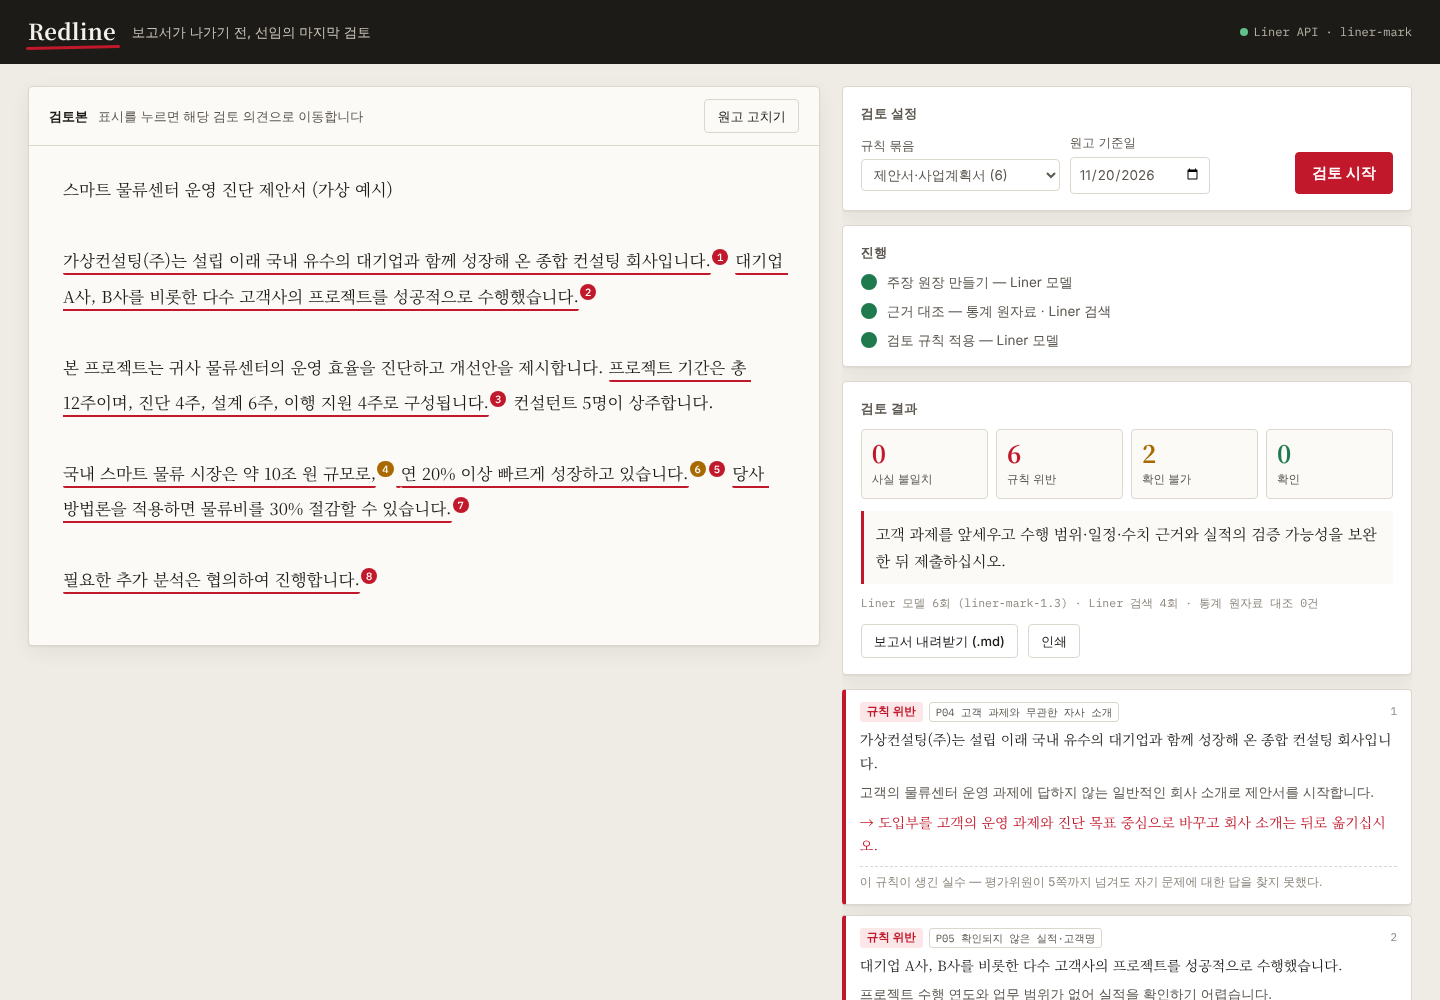
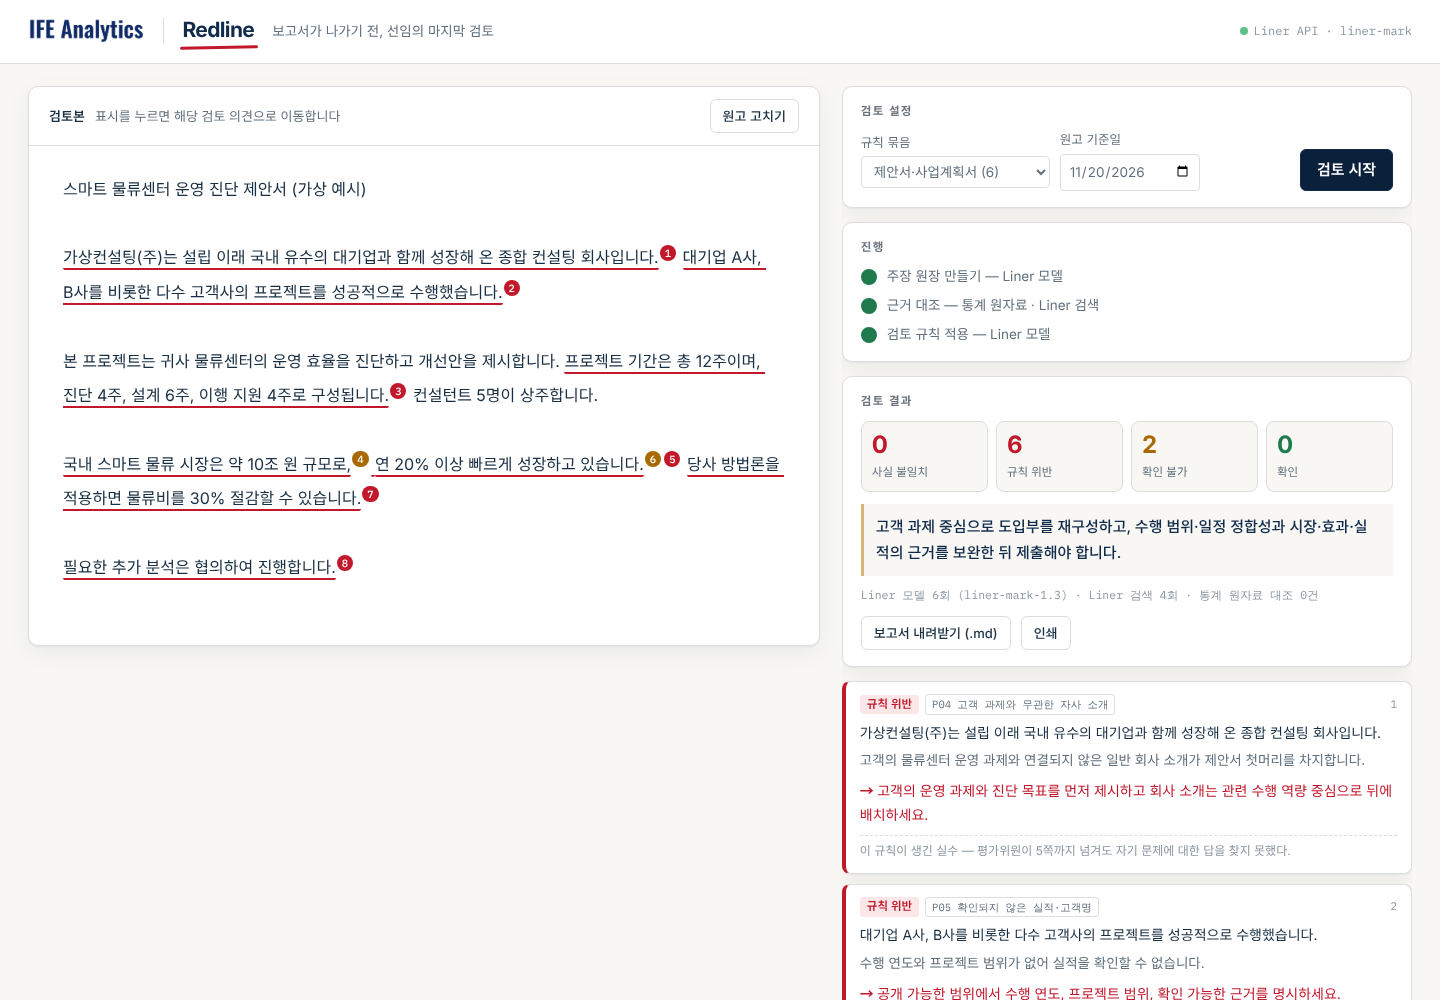
화면을 IFE Analytics 스타일로: 워드마크 로고, 네이비·골드 색, Inter·Noto Sans KR 글꼴, 꼬리말 면책
Claude-Session: https://claude.ai/code/session_01Hsb1Zqs2nKm49MCUT2EsYw

diff --git a/redline/static/index.html b/redline/static/index.html
@@ -5,51 +5,55 @@
 <meta name="viewport" content="width=device-width, initial-scale=1">
 <title>Redline — 보고서가 나가기 전, 선임의 마지막 검토</title>
 <link rel="preconnect" href="https://fonts.googleapis.com">
-<link href="https://fonts.googleapis.com/css2?family=Noto+Serif+KR:wght@400;600;700&family=IBM+Plex+Mono:wght@400;500&display=swap" rel="stylesheet">
+<link href="https://fonts.googleapis.com/css2?family=Inter:wght@400;500;600;700&family=Noto+Sans+KR:wght@400;500;600;700&family=IBM+Plex+Mono:wght@400;500&display=swap" rel="stylesheet">
 <style>
 :root{
-  --paper:#fbfaf7; --desk:#efece6; --ink:#1d1b18; --ink2:#5c5750; --ink3:#8d877e; --line:#dcd7cd;
+  --navy:#102b4c; --navy-deep:#0b203a; --gold:#d5b578;
+  --paper:#fff; --desk:#f8f7f3; --ink:#192f43; --ink2:#61707d; --ink3:#8a96a1; --line:#dcdedb;
   --red:#c2182b; --red-bg:#fbe6e8; --amber:#a86a00; --amber-bg:#fbf0d6; --green:#1f7a4d; --green-bg:#e3f3ea;
-  --pending:#9a958c; --card:#fff; --shadow:0 1px 2px rgba(40,30,10,.06),0 6px 20px rgba(40,30,10,.06);
-  --sans:-apple-system,BlinkMacSystemFont,"Pretendard","Noto Sans KR","Malgun Gothic",sans-serif;
-  --serif:"Noto Serif KR","Nanum Myeongjo",Georgia,serif; --mono:"IBM Plex Mono",ui-monospace,Menlo,monospace;
+  --pending:#9aa5af; --card:#fff; --shadow:0 1px 2px rgba(16,43,76,.05),0 8px 24px rgba(16,43,76,.06);
+  --sans:Inter,"Pretendard","Noto Sans KR","Apple SD Gothic Neo","Malgun Gothic",system-ui,sans-serif;
+  --serif:var(--sans); --mono:"IBM Plex Mono",ui-monospace,Menlo,monospace;
 }
 *{box-sizing:border-box}
 html,body{margin:0;background:var(--desk);color:var(--ink);font-family:var(--sans);font-size:15px;line-height:1.55}
 button,select,input,textarea{font:inherit;color:inherit}
-header{display:flex;align-items:center;gap:16px;padding:14px 28px;background:var(--ink);color:#f4f1ea}
-.logo{font-family:var(--serif);font-weight:700;font-size:22px;letter-spacing:.2px;position:relative;padding-bottom:2px}
-.logo::after{content:"";position:absolute;left:-2px;right:-4px;bottom:1px;height:3px;background:var(--red);transform:rotate(-1.2deg);border-radius:2px}
-.tag{color:#c9c3b8;font-size:13.5px}
-.hright{margin-left:auto;display:flex;gap:10px;align-items:center;font-family:var(--mono);font-size:12px;color:#b9b3a8}
+header{display:flex;align-items:center;gap:18px;padding:14px 28px;background:#fff;border-bottom:1px solid var(--line)}
+.brand{display:flex;align-items:center;flex:none}
+.brand img{height:26px;width:auto;display:block}
+.sep{width:1px;height:26px;background:var(--line)}
+.logo{font-weight:700;font-size:21px;letter-spacing:-.03em;color:var(--navy);position:relative;padding-bottom:2px}
+.logo::after{content:"";position:absolute;left:-2px;right:-4px;bottom:0;height:3px;background:var(--red);transform:rotate(-1.2deg);border-radius:2px}
+.tag{color:var(--ink2);font-size:13.5px}
+.hright{margin-left:auto;display:flex;gap:10px;align-items:center;font-family:var(--mono);font-size:12px;color:var(--ink3)}
 .dot{width:8px;height:8px;border-radius:50%;background:#5fc08a;display:inline-block;margin-right:6px}
 .dot.off{background:#e06a6a}
 main{display:grid;grid-template-columns:minmax(0,1.25fr) minmax(360px,.9fr);gap:22px;max-width:1440px;margin:0 auto;padding:22px 28px 60px;align-items:start}
-.sheet{background:var(--paper);border:1px solid var(--line);border-radius:4px;box-shadow:var(--shadow);min-height:560px}
+.sheet{background:var(--paper);border:1px solid var(--line);border-radius:10px;box-shadow:var(--shadow);min-height:560px}
 .sheet-head{display:flex;align-items:center;gap:10px;padding:12px 20px;border-bottom:1px solid var(--line);font-size:13px;color:var(--ink2)}
 .sheet-head b{color:var(--ink);font-weight:600}
 .sheet-head .sp{margin-left:auto}
-textarea#src{display:block;width:100%;min-height:520px;border:0;outline:0;resize:vertical;background:transparent;padding:26px 34px;font-family:var(--serif);font-size:16.5px;line-height:1.95}
-#doc{padding:26px 34px 40px;font-family:var(--serif);font-size:16.5px;line-height:2.15;white-space:pre-wrap;word-break:keep-all}
-#doc .title{font-weight:700;font-size:21px;line-height:1.5}
+textarea#src{display:block;width:100%;min-height:520px;border:0;outline:0;resize:vertical;background:transparent;padding:26px 34px;font-family:var(--serif);font-size:16px;line-height:1.95}
+#doc{padding:26px 34px 40px;font-family:var(--serif);font-size:16px;line-height:2.15;white-space:pre-wrap;word-break:keep-all}
+#doc .title{font-weight:700;font-size:21px;line-height:1.5;color:var(--navy);letter-spacing:-.03em}
 mark{background:transparent;color:inherit;cursor:pointer;border-radius:2px;padding:1px 0;transition:background .15s}
 mark.pending{border-bottom:2px dotted var(--pending)}
 mark.confirmed{border-bottom:2px solid var(--green)}
 mark.unverified{border-bottom:2px dashed var(--amber);background:var(--amber-bg)}
 mark.mismatch{background:var(--red-bg);text-decoration:underline wavy var(--red);text-decoration-thickness:1.5px;text-underline-offset:5px}
 mark.rule{border-bottom:2px solid var(--red)}
-mark.hot{outline:2px solid var(--ink);outline-offset:1px}
+mark.hot{outline:2px solid var(--navy);outline-offset:1px}
 sup.n{font-family:var(--mono);font-size:10.5px;font-weight:500;color:#fff;border-radius:8px;padding:1px 5px;margin:0 2px 0 1px;vertical-align:super;line-height:1;cursor:pointer}
 sup.n.pending{background:var(--pending)} sup.n.confirmed{background:var(--green)} sup.n.unverified{background:var(--amber)}
 sup.n.mismatch,sup.n.rule{background:var(--red)}
-.btn{border:1px solid var(--ink);background:var(--ink);color:#fff;border-radius:4px;padding:8px 16px;font-weight:600;cursor:pointer}
+.btn{border:1px solid var(--navy);background:var(--navy);color:#fff;border-radius:6px;padding:8px 16px;font-weight:600;cursor:pointer}
 .btn:disabled{opacity:.45;cursor:default}
-.btn.red{background:var(--red);border-color:var(--red)}
+.btn.red{background:var(--navy);border-color:var(--navy)}.btn.red:hover:not(:disabled){background:var(--navy-deep)}
 .btn.ghost{background:transparent;color:var(--ink);border-color:var(--line);font-weight:500;padding:6px 12px;font-size:13px}
 select,input[type=date]{border:1px solid var(--line);background:#fff;border-radius:4px;padding:6px 8px;font-size:13.5px}
 aside{position:sticky;top:16px;display:flex;flex-direction:column;gap:14px;max-height:calc(100vh - 32px);overflow:auto;padding-bottom:8px}
-.panel{background:var(--card);border:1px solid var(--line);border-radius:4px;box-shadow:var(--shadow);padding:16px 18px}
-.panel h2{margin:0 0 10px;font-size:13px;font-weight:600;color:var(--ink2);letter-spacing:.3px}
+.panel{background:var(--card);border:1px solid var(--line);border-radius:10px;box-shadow:var(--shadow);padding:16px 18px}
+.panel h2{margin:0 0 10px;font-size:11.5px;font-weight:650;color:#6a737b;letter-spacing:.12em}
 .row{display:flex;gap:10px;align-items:center;flex-wrap:wrap}
 .row label{font-size:12.5px;color:var(--ink2);display:flex;flex-direction:column;gap:4px}
 .rules{margin:10px 0 0;padding:0;list-style:none;display:grid;gap:7px}
@@ -59,21 +63,21 @@ aside{position:sticky;top:16px;display:flex;flex-direction:column;gap:14px;max-h
 .steps{list-style:none;margin:0;padding:0;display:grid;gap:8px}
 .steps li{display:flex;gap:10px;align-items:center;font-size:13.5px;color:var(--ink3)}
 .steps li i{width:16px;height:16px;border-radius:50%;border:2px solid var(--line);flex:none}
-.steps li.on{color:var(--ink)} .steps li.on i{border-color:var(--red);border-top-color:transparent;animation:spin .8s linear infinite}
+.steps li.on{color:var(--ink)} .steps li.on i{border-color:var(--navy);border-top-color:transparent;animation:spin .8s linear infinite}
 .steps li.ok{color:var(--ink2)} .steps li.ok i{border-color:var(--green);background:var(--green)}
 @keyframes spin{to{transform:rotate(360deg)}}
 .tiles{display:grid;grid-template-columns:repeat(4,1fr);gap:8px}
-.tile{border:1px solid var(--line);border-radius:4px;padding:9px 10px;background:var(--paper)}
-.tile b{display:block;font-family:var(--serif);font-size:24px;line-height:1.15}
+.tile{border:1px solid var(--line);border-radius:8px;padding:9px 10px;background:var(--desk)}
+.tile b{display:block;font-size:24px;font-weight:700;line-height:1.15;letter-spacing:-.03em}
 .tile span{font-size:11.5px;color:var(--ink2)}
 .tile.r b{color:var(--red)} .tile.a b{color:var(--amber)} .tile.g b{color:var(--green)}
-.overall{font-family:var(--serif);font-size:15px;line-height:1.75;margin:12px 0 0;padding:10px 12px;border-left:3px solid var(--red);background:var(--paper)}
+.overall{font-family:var(--serif);font-size:15px;line-height:1.75;margin:12px 0 0;padding:10px 12px;border-left:3px solid var(--gold);background:var(--desk);color:var(--navy);font-weight:500}
 .usage{font-family:var(--mono);font-size:11.5px;color:var(--ink3);margin-top:10px}
 #cards{display:grid;gap:10px}
-.card{background:var(--card);border:1px solid var(--line);border-left:4px solid var(--pending);border-radius:4px;padding:12px 14px;box-shadow:var(--shadow);cursor:pointer}
+.card{background:var(--card);border:1px solid var(--line);border-left:4px solid var(--pending);border-radius:8px;padding:12px 14px;box-shadow:var(--shadow);cursor:pointer}
 .card.confirmed{border-left-color:var(--green)} .card.unverified{border-left-color:var(--amber)}
 .card.mismatch,.card.rule{border-left-color:var(--red)}
-.card.hot{outline:2px solid var(--ink)}
+.card.hot{outline:2px solid var(--navy)}
 .chead{display:flex;gap:6px;align-items:center;flex-wrap:wrap;margin-bottom:6px}
 .badge{font-size:11.5px;font-weight:600;border-radius:3px;padding:1px 7px}
 .badge.confirmed{background:var(--green-bg);color:var(--green)} .badge.unverified{background:var(--amber-bg);color:var(--amber)}
@@ -91,13 +95,16 @@ aside{position:sticky;top:16px;display:flex;flex-direction:column;gap:14px;max-h
 .src a:hover{text-decoration:underline}
 .origin{margin:8px 0 0;font-size:12px;color:var(--ink3);border-top:1px dashed var(--line);padding-top:6px}
 .err{color:var(--red);font-size:13.5px}
+footer{max-width:1440px;margin:0 auto;padding:0 28px 36px;font-size:12px;color:var(--ink3)}
 .hide{display:none!important}
 @media (max-width:980px){main{grid-template-columns:1fr;padding:14px 16px 40px}aside{position:static;max-height:none}.tiles{grid-template-columns:repeat(2,1fr)}header{padding:12px 16px;flex-wrap:wrap}.tag{display:none}textarea#src,#doc{padding:18px 18px}}
-@media print{header,aside .noprint,.sheet-head .sp{display:none}html,body{background:#fff}main{display:block;padding:0}.sheet,.panel,.card{box-shadow:none}aside{position:static;max-height:none;overflow:visible;margin-top:16px}}
+@media print{footer,header,aside .noprint,.sheet-head .sp{display:none}html,body{background:#fff}main{display:block;padding:0}.sheet,.panel,.card{box-shadow:none}aside{position:static;max-height:none;overflow:visible;margin-top:16px}}
 </style>
 </head>
 <body>
 <header>
+  <a class="brand" href="https://www.ifeanalytics.com" target="_blank" rel="noopener"><img src="static/ife-wordmark-navy.png" alt="IFE Analytics"></a>
+  <span class="sep"></span>
   <div class="logo">Redline</div>
   <div class="tag">보고서가 나가기 전, 선임의 마지막 검토</div>
   <div class="hright"><span><span class="dot" id="keydot"></span><span id="keytxt">Liner API</span></span></div>
@@ -154,6 +161,7 @@ aside{position:sticky;top:16px;display:flex;flex-direction:column;gap:14px;max-h
     </div>
   </aside>
 </main>
+<footer>© IFE Analytics · Redline은 초안 검토를 돕는 도구입니다. 판정은 근거 자료와의 대조 결과이며 최종 판단은 작성자가 합니다. 투자 자문이 아닙니다.</footer>
 <script>
 const $ = (id) => document.getElementById(id);
 const esc = (s) => String(s ?? "").replace(/[&<>"]/g, (c) => ({"&":"&amp;","<":"&lt;",">":"&gt;",'"':"&quot;"}[c]));

diff --git a/redline/server.py b/redline/server.py
@@ -8,6 +8,7 @@ import threading
 from pathlib import Path
 
 from fastapi import FastAPI, HTTPException
+from fastapi.staticfiles import StaticFiles
 from fastapi.responses import FileResponse, PlainTextResponse, StreamingResponse
 from pydantic import BaseModel
 
@@ -32,6 +33,7 @@ def _load_env() -> None:
 
 _load_env()
 app = FastAPI(title="Redline", version=__version__)
+app.mount("/static", StaticFiles(directory=STATIC), name="static")
 
 
 class ReviewIn(BaseModel):
